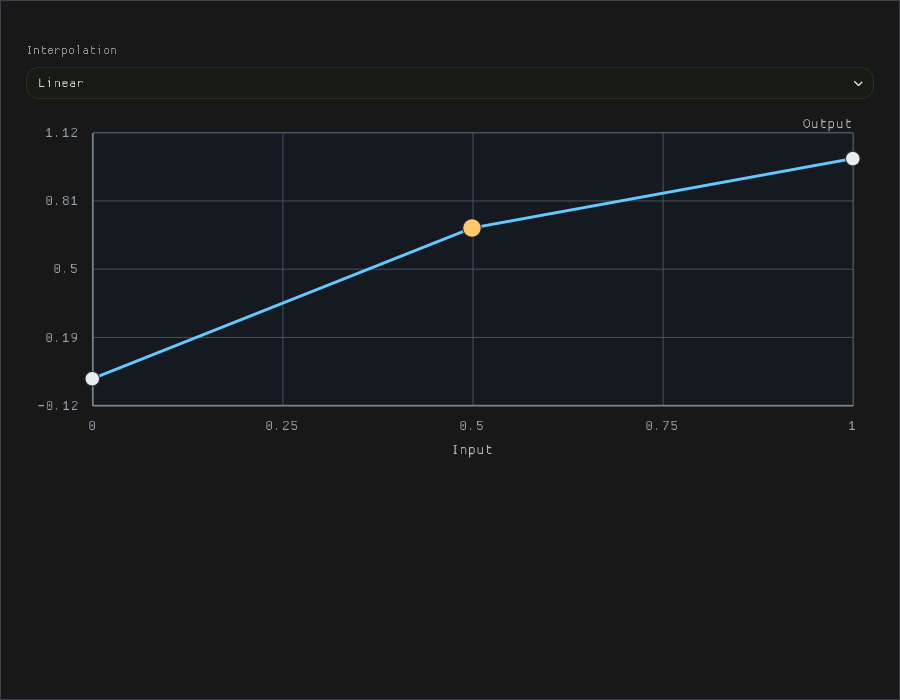
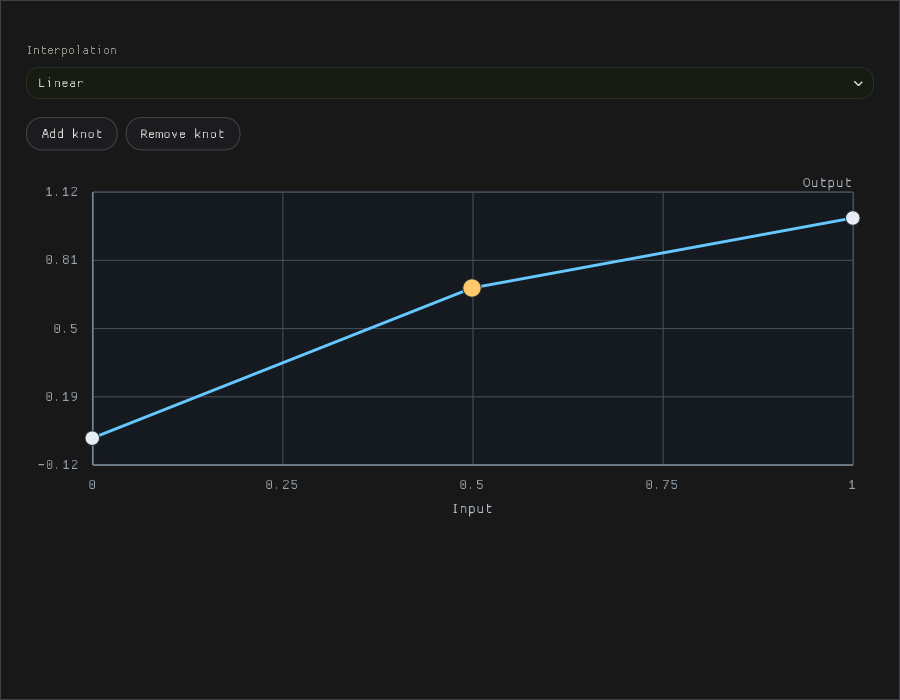
Add knot insertion and removal to curve plot

diff --git a/Frontier/Engine/Interface/Controls/CurvePlot.cpp b/Frontier/Engine/Interface/Controls/CurvePlot.cpp
@@ -5,6 +5,7 @@
 
 #include "Frontier/Engine/Interface/Controls/CurvePlot.h"
 
+#include "Frontier/Engine/Interface/Controls/ActionRow.h"
 #include "Frontier/Engine/Interface/Controls/CaptionText.h"
 #include "Frontier/Engine/Interface/Controls/ControlColumn.h"
 #include "Frontier/Engine/Interface/Controls/DiagramCanvas.h"
@@ -92,6 +93,35 @@ bool AcceptCandidate(CurveSpecification& Specification, CurveProfile<double>& Pr
     if (!CandidateProfile.Assign(Candidate, &Diagnostic)) return false;
     Specification = std::move(Candidate);
     Profile = std::move(CandidateProfile);
+    return true;
+}
+
+bool InsertSelectedKnot(CurveSpecification& Specification, CurveProfile<double>& Profile, int& SelectedKnot,
+                        std::string& Diagnostic)
+{
+    if (Specification.Knots.size() >= CurveProfile<double>::MaximumKnotCount) return false;
+    const size_t Left = SelectedKnot + 1 < static_cast<int>(Specification.Knots.size())
+                            ? static_cast<size_t>(SelectedKnot)
+                            : Specification.Knots.size() - 2;
+    const double Input = (Specification.Knots[Left].Input + Specification.Knots[Left + 1].Input) * 0.5;
+    CurveSpecification Candidate = Specification;
+    const size_t Inserted = Left + 1;
+    Candidate.Knots.insert(Candidate.Knots.begin() + static_cast<std::ptrdiff_t>(Inserted),
+                           { Input, Profile.Evaluate(Input) });
+    if (!AcceptCandidate(Specification, Profile, std::move(Candidate), Diagnostic)) return false;
+    SelectedKnot = static_cast<int>(Inserted);
+    return true;
+}
+
+bool RemoveSelectedKnot(CurveSpecification& Specification, CurveProfile<double>& Profile, int& SelectedKnot,
+                        std::string& Diagnostic)
+{
+    if (Specification.Knots.size() <= 2 || SelectedKnot <= 0 ||
+        static_cast<size_t>(SelectedKnot + 1) >= Specification.Knots.size()) return false;
+    CurveSpecification Candidate = Specification;
+    Candidate.Knots.erase(Candidate.Knots.begin() + SelectedKnot);
+    if (!AcceptCandidate(Specification, Profile, std::move(Candidate), Diagnostic)) return false;
+    SelectedKnot = std::min(SelectedKnot, static_cast<int>(Specification.Knots.size() - 1));
     return true;
 }
 
@@ -190,10 +220,24 @@ bool CurvePlot::Construct(ControlColumn& Column, const char* Id, CurveSpecificat
     const ImGuiID DraggingId = ImGui::GetID("CurvePlotDraggingKnot");
     int SelectedKnot = std::clamp(Storage->GetInt(SelectedId, 0), 0, static_cast<int>(Specification.Knots.size() - 1));
     int DraggingKnot = Storage->GetInt(DraggingId, -1);
+    const bool CanInsert = Specification.Knots.size() < CurveProfile<double>::MaximumKnotCount;
+    const bool CanRemove = Specification.Knots.size() > 2 && SelectedKnot > 0 &&
+                           static_cast<size_t>(SelectedKnot + 1) < Specification.Knots.size();
+    const std::array<ActionEntry, 2> Actions = {{
+        { "InsertKnot", "Add knot", CanInsert, "Insert on the adjacent interval around the selected knot." },
+        { "RemoveKnot", "Remove knot", CanRemove, "Remove the selected interior knot; endpoints define the domain." },
+    }};
+    const int Action = ActionRow::Construct(Column, Actions);
+    if (Action == 0 && CanInsert)
+        Changed |= InsertSelectedKnot(Specification, Profile, SelectedKnot, Diagnostic);
+    else if (Action == 1 && CanRemove)
+        Changed |= RemoveSelectedKnot(Specification, Profile, SelectedKnot, Diagnostic);
+    Storage->SetInt(SelectedId, SelectedKnot);
+
     DiagramDrag Drag;
     DiagramPen Pen = DiagramCanvas::Begin(Column, "CurveCanvas", PlotWidth, PlotHeight, 8.0f, 8.0f,
                                          Enabled ? &Drag : nullptr,
-                                         "Drag knots. Focus the plot: arrows edit, Home/End select endpoints.");
+                                         "Drag knots. Focus the plot: arrows edit; Insert/Delete add or remove; Home/End select endpoints.");
     const CurveRange Range = ResolveRange(Specification);
 
     if (Drag.Start)
@@ -247,6 +291,10 @@ bool CurvePlot::Construct(ControlColumn& Column, const char* Id, CurveSpecificat
     {
         if (Drag.Key == ImGuiKey_Home) SelectedKnot = 0;
         else if (Drag.Key == ImGuiKey_End) SelectedKnot = static_cast<int>(Specification.Knots.size() - 1);
+        else if (Drag.Key == ImGuiKey_Insert)
+            Changed |= InsertSelectedKnot(Specification, Profile, SelectedKnot, Diagnostic);
+        else if (Drag.Key == ImGuiKey_Delete)
+            Changed |= RemoveSelectedKnot(Specification, Profile, SelectedKnot, Diagnostic);
         else
         {
             CurveSpecification Candidate = Specification;

diff --git a/Exhibits/Curves/Code/CurvePlotValidation.cpp b/Exhibits/Curves/Code/CurvePlotValidation.cpp
@@ -106,6 +106,24 @@ int main(int ArgumentCount, char** Arguments)
         Frame();
         Confirm(KeyboardChanged && Specification.Knots[1].Output > DraggedOutput,
                 "Focused arrow-key editing did not adjust the selected knot");
+        const CurveSpecification BeforeKnotCommands = Specification;
+        IO.AddKeyEvent(ImGuiKey_Insert, true);
+        Frame();
+        const bool Inserted = Changed;
+        IO.AddKeyEvent(ImGuiKey_Insert, false);
+        Frame();
+        Confirm(Inserted && Specification.Knots.size() == 4, "Insert did not add a knot to the selected interval");
+        IO.AddKeyEvent(ImGuiKey_Delete, true);
+        Frame();
+        const bool Removed = Changed;
+        IO.AddKeyEvent(ImGuiKey_Delete, false);
+        Frame();
+        Confirm(Removed && Specification.Knots.size() == 3, "Delete did not remove the selected interior knot");
+        bool KnotRoundTrip = Specification.Knots.size() == BeforeKnotCommands.Knots.size();
+        for (size_t Index = 0; Index < Specification.Knots.size() && KnotRoundTrip; ++Index)
+            KnotRoundTrip = std::abs(Specification.Knots[Index].Input - BeforeKnotCommands.Knots[Index].Input) < 1.0e-12 &&
+                            std::abs(Specification.Knots[Index].Output - BeforeKnotCommands.Knots[Index].Output) < 1.0e-12;
+        Confirm(KnotRoundTrip, "Insert/Delete changed the surrounding curve knots");
 
         const double PriorOutput = Specification.Knots[1].Output;
         Specification.Interpolation = CurveInterpolation::MonotonicPchip;

diff --git a/Frontier/Engine/Interface/Controls/DiagramCanvas.cpp b/Frontier/Engine/Interface/Controls/DiagramCanvas.cpp
@@ -36,7 +36,7 @@ DiagramPen DiagramCanvas::Begin(ControlColumn& Column, const char* Id, float Log
         {
             Drag->Step = ImGui::GetIO().KeyShift ? 10.0f : 1.0f;
             for (ImGuiKey Key : {ImGuiKey_LeftArrow, ImGuiKey_RightArrow, ImGuiKey_UpArrow,
-                                ImGuiKey_DownArrow, ImGuiKey_Home, ImGuiKey_End})
+                                ImGuiKey_DownArrow, ImGuiKey_Home, ImGuiKey_End, ImGuiKey_Insert, ImGuiKey_Delete})
             {
                 if (ImGui::IsKeyPressed(Key)) Drag->Key = Key;
             }

diff --git a/Documentation/Tracker.md b/Documentation/Tracker.md
@@ -53,8 +53,8 @@ Single progress and violation tracker. Detailed evidence belongs in Exhibits, no
 - Added the declarative `VisualEffectProfile`/`EffectSpace` `.effectspace` schema with spatial and replication profiles;
   `EffectSpaceValidation` passes 19 checks. This is not a GPU render sequence.
 - Started the shared UI-first slice with `Frontier/Engine/Interface/Controls/CurvePlot.{h,cpp}`. It previews live evaluations,
-  selects interpolation, and transactionally edits knots by pointer or focused keyboard input. Headless ImGui validation passed
-  drag, arrow-key editing, and invalid-PCHIP rejection under ASan/UBSan; CPU-raster evidence is
+  selects interpolation, and transactionally drags, inserts, removes, or keyboard-edits knots. Headless ImGui validation passed
+  pointer/keyboard edits, Insert/Delete round-trip, and invalid-PCHIP rejection; CPU-raster evidence is
   `Exhibits/Curves/Images/CurvePlot-CPU.png`. Domain-inspector integration and full editor parity remain open.
 - **Still open:** CurveSpace consumers; the EffectSpace evaluation/render-target/GPU pipeline; the remaining 3.6 naming, gizmo, and
   placement work; and a native/browser Fluid boundary. No domain curve UI or engine/editor Fluid integration is claimed.

diff --git a/Exhibits/Curves/README.md b/Exhibits/Curves/README.md
@@ -5,10 +5,10 @@ linear, cubic Hermite, and monotonic PCHIP interpolation; transactional key vali
 baking; and a `SpaceCodec` schema for `.curvespace` files.
 
 `Frontier/Engine/Interface/Controls/CurvePlot.{h,cpp}` is the first shared UI control for this foundation. It displays the
-live evaluated profile, provides an interpolation selector, and supports both dragging knots and keyboard editing through
-Left/Right/Up/Down; Home/End selects the endpoint knots. Endpoint input coordinates remain fixed, interior inputs remain ordered,
-and edits that fail the selected interpolation's validation are rejected without mutating the specification. It is not yet
-connected to a domain inspector and does not add or remove knots.
+live evaluated profile, provides an interpolation selector, and supports knot dragging plus focused keyboard editing. Left/Right
+adjust interior input, Up/Down adjust output, Home/End selects endpoints, and Insert/Delete add or remove the selected interior
+knot. Endpoint input coordinates remain fixed, interior inputs remain ordered, and edits that fail the selected interpolation's
+validation are rejected without mutating the specification. Domain-inspector integration remains open.
 
 ## Verification
 
